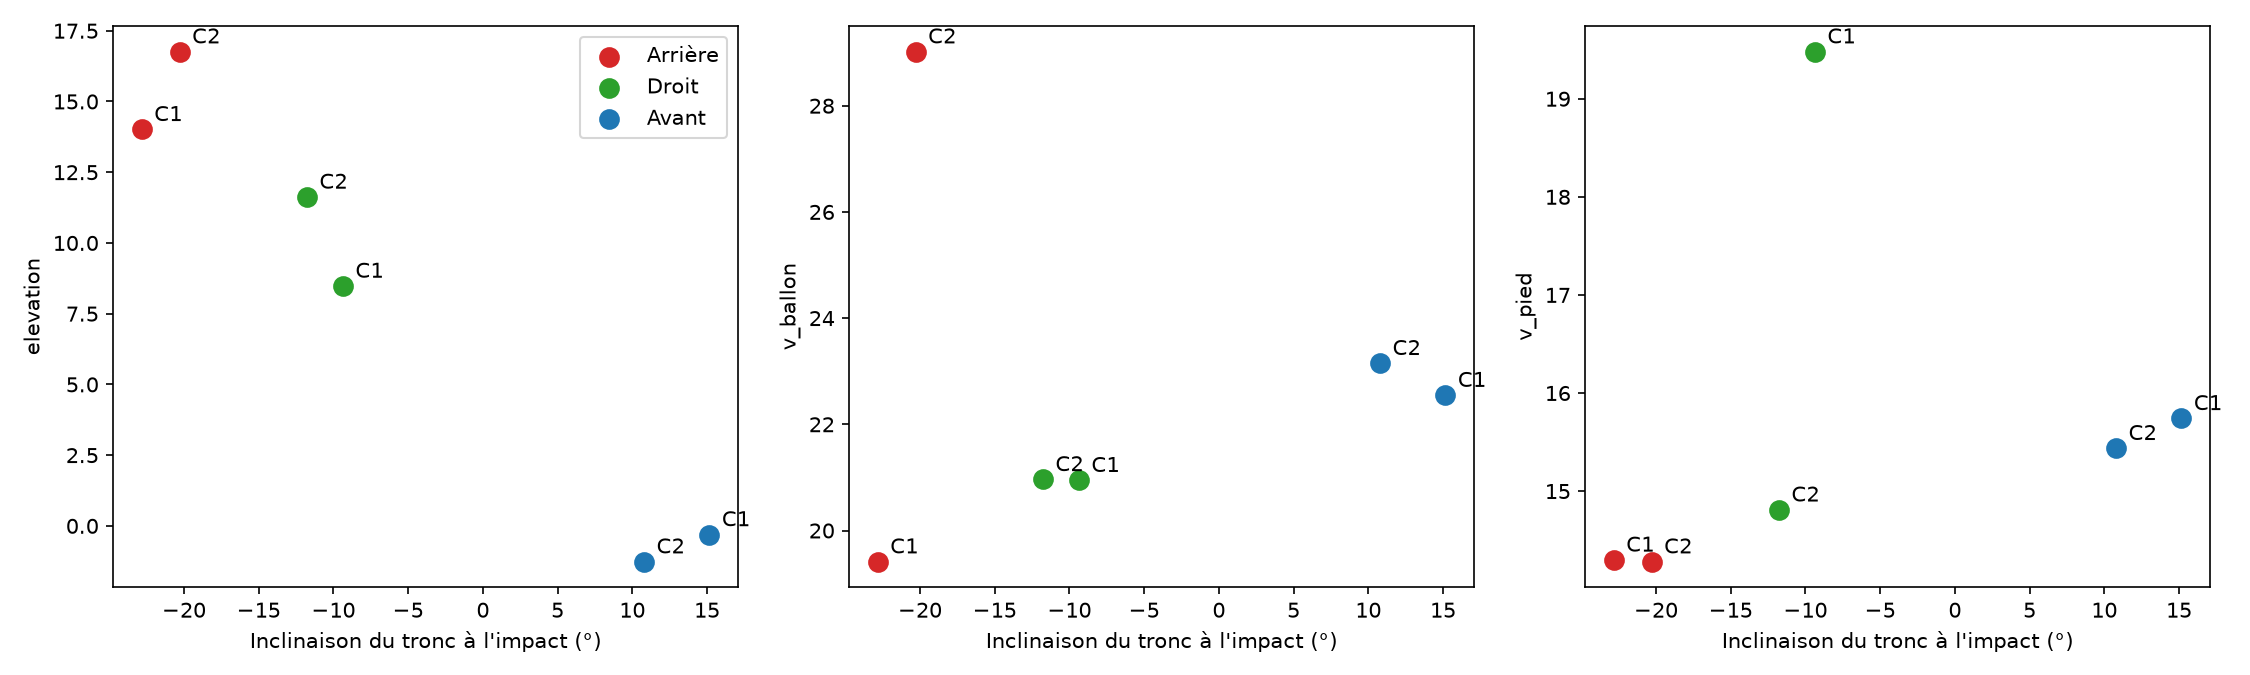
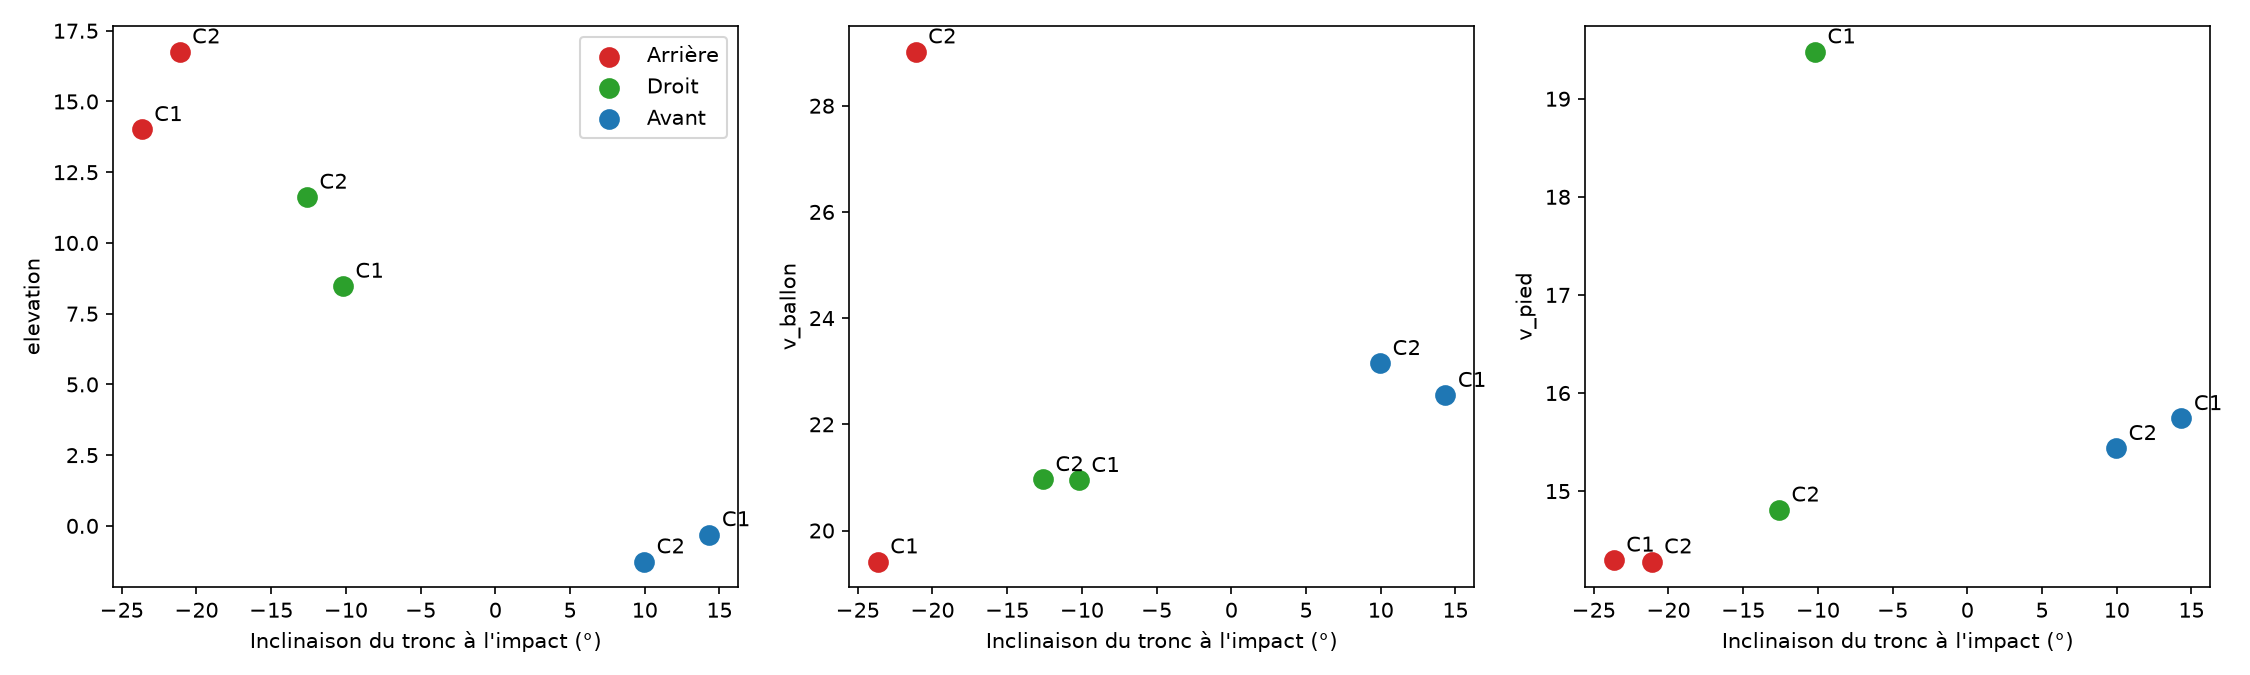
final code

diff --git a/claude_fonctions.py b/claude_fonctions.py
@@ -28,7 +28,7 @@ print("Contenu du dossier :")
 for fichier in os.listdir(DOSSIER):
     print(fichier)
 
-REF_FILE = None          # ex : "Ref.c3d" (capture anatomique) ; None = pas de référence
+
 CUTOFF_CORPS = 15        # Hz (corps). Le ballon n'est pas filtré.
 SEUIL_IMPACT = 4.5      # m/s : vitesse du ballon qui définit l'impact
 N_FRAMES_BALLON = 5      # nb de frames après impact pour la vitesse initiale du ballon
@@ -240,6 +240,53 @@ avant = avant / np.linalg.norm(avant)
 print("\nAxe de tir (x, y) :", np.round(avant, 3))
 
 # %% Référence anatomique (0° du tronc), optionnelle
+# %% Référence anatomique : inclinaison moyenne du tronc en position debout
+REF_FILE = "ANAT_REF.c3d"
+
+mk_ref, _, freq_ref = charger_essai(os.path.join(DOSSIER, REF_FILE))
+bassin_ref = centre(mk_ref, BAS_TRONC)
+epaule_ref = centre(mk_ref, HAUT_TRONC)
+
+# 1) Direction de face du sujet dans la capture de référence
+#    (perpendiculaire à l'axe hanche droite -> hanche gauche, dans le plan horizontal)
+v_hanches = np.mean(mk_ref["hanche gauche"] - mk_ref["hanche droite"], axis=1)
+gauche_ref = v_hanches[:2] / np.linalg.norm(v_hanches[:2])
+face_ref = np.array([gauche_ref[1], -gauche_ref[0]])      # même convention que 'avant'
+
+# 2) Inclinaison au cours de la capture, projetée sur deux axes :
+#    - face_ref : direction réelle de face du sujet (référence anatomique)
+#    - avant    : axe de tir utilisé dans les essais
+incl_face = inclinaison_tronc(bassin_ref, epaule_ref, face_ref)
+incl_tir = inclinaison_tronc(bassin_ref, epaule_ref, avant)
+
+# 3) Ne garder que la phase où le sujet est immobile (le début et la fin
+#    de la capture contiennent souvent des mouvements)
+vit_tronc = np.linalg.norm(np.gradient(epaule_ref, axis=1), axis=0) * freq_ref   # m/s
+stable = vit_tronc < 0.05                                                         # < 5 cm/s
+
+print(f"Capture de référence : {len(incl_face)} images, {stable.sum()} images stables")
+print(f"Angle entre la face du sujet et l'axe de tir : "
+      f"{np.degrees(np.arccos(np.clip(face_ref @ avant, -1, 1))):.1f}°")
+print(f"Inclinaison de face (moyenne ± écart-type) : "
+      f"{incl_face[stable].mean():.1f} ± {incl_face[stable].std():.1f}°")
+print(f"Inclinaison projetée sur l'axe de tir      : "
+      f"{incl_tir[stable].mean():.1f} ± {incl_tir[stable].std():.1f}°")
+
+INCL_REF = float(np.median(incl_face[stable]))
+print(f"\nINCL_REF retenu : {INCL_REF:.1f}°")
+
+# Contrôle visuel
+t_ref = np.arange(len(incl_face)) / freq_ref
+plt.figure(figsize=(8, 3.5))
+plt.plot(t_ref, incl_face, label="inclinaison (face du sujet)")
+plt.plot(t_ref, incl_tir, label="inclinaison (axe de tir)", alpha=0.6)
+plt.scatter(t_ref[stable], incl_face[stable], s=6, color="k", label="images stables")
+plt.axhline(INCL_REF, color="r", ls="--")
+plt.xlabel("Temps (s)"); plt.ylabel("Inclinaison (°)"); plt.legend()
+plt.title("Position anatomique de référence")
+plt.savefig(os.path.join(DOSSIER, "fig_reference_anatomique.png"), dpi=150)
+plt.show()
+
 
 INCL_REF = 0.0
 if REF_FILE:
